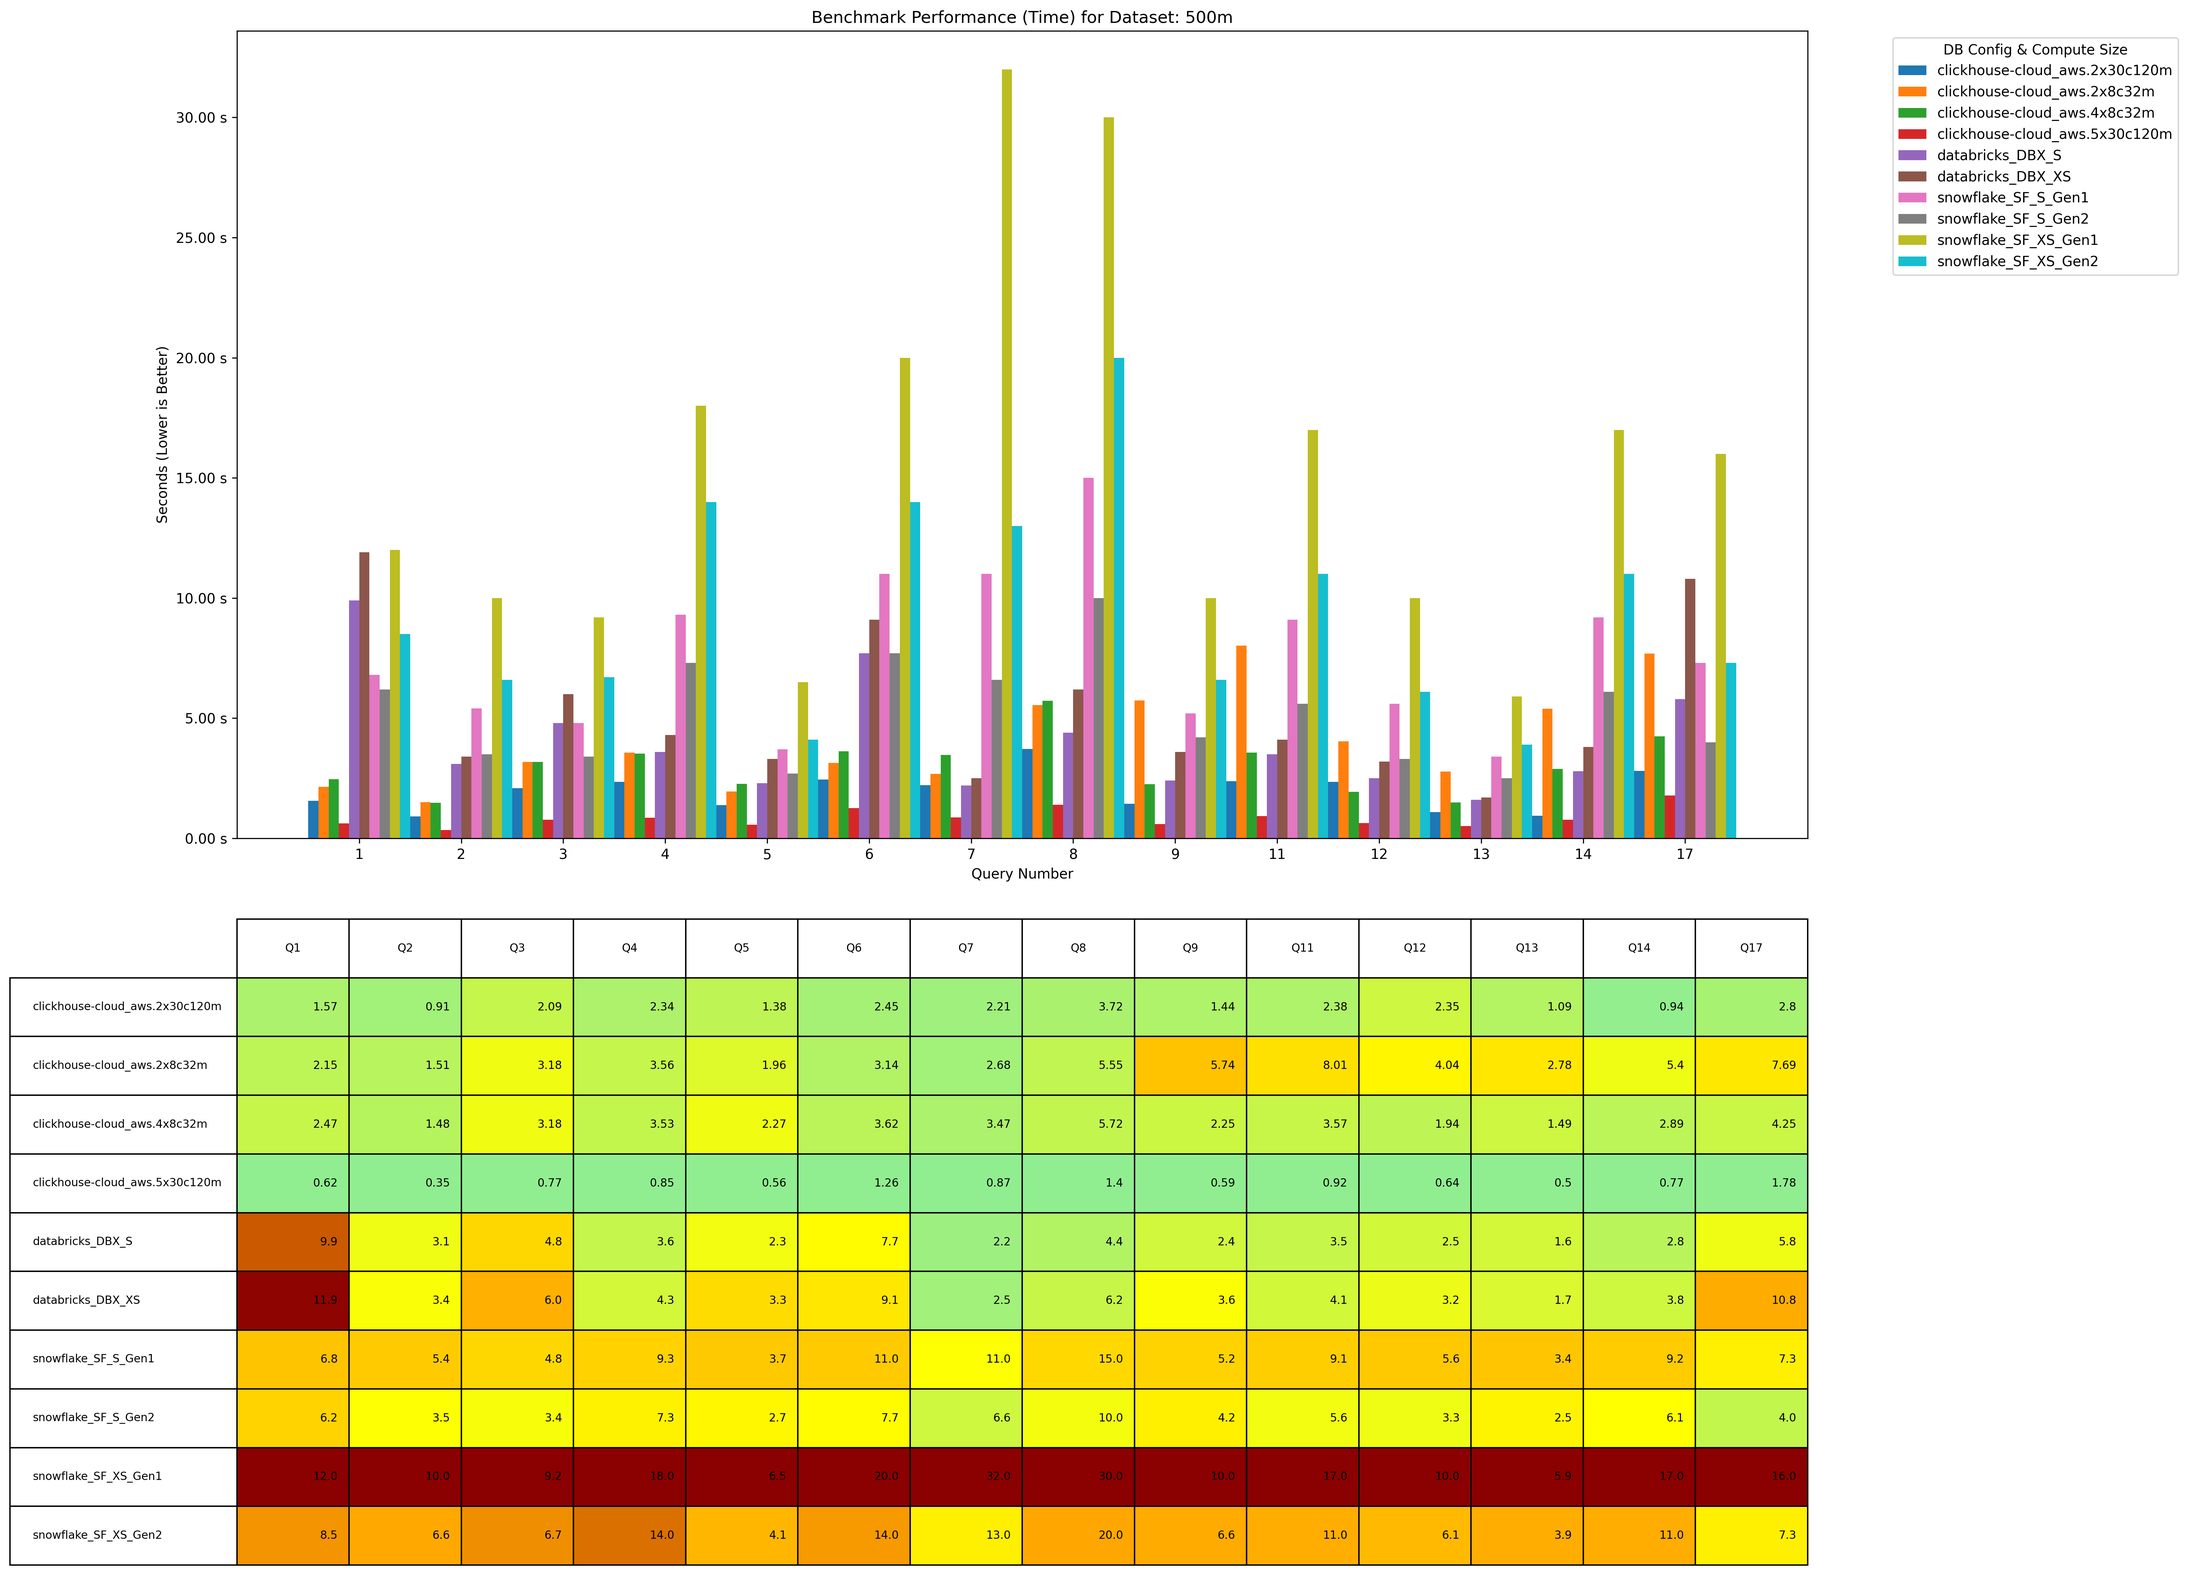
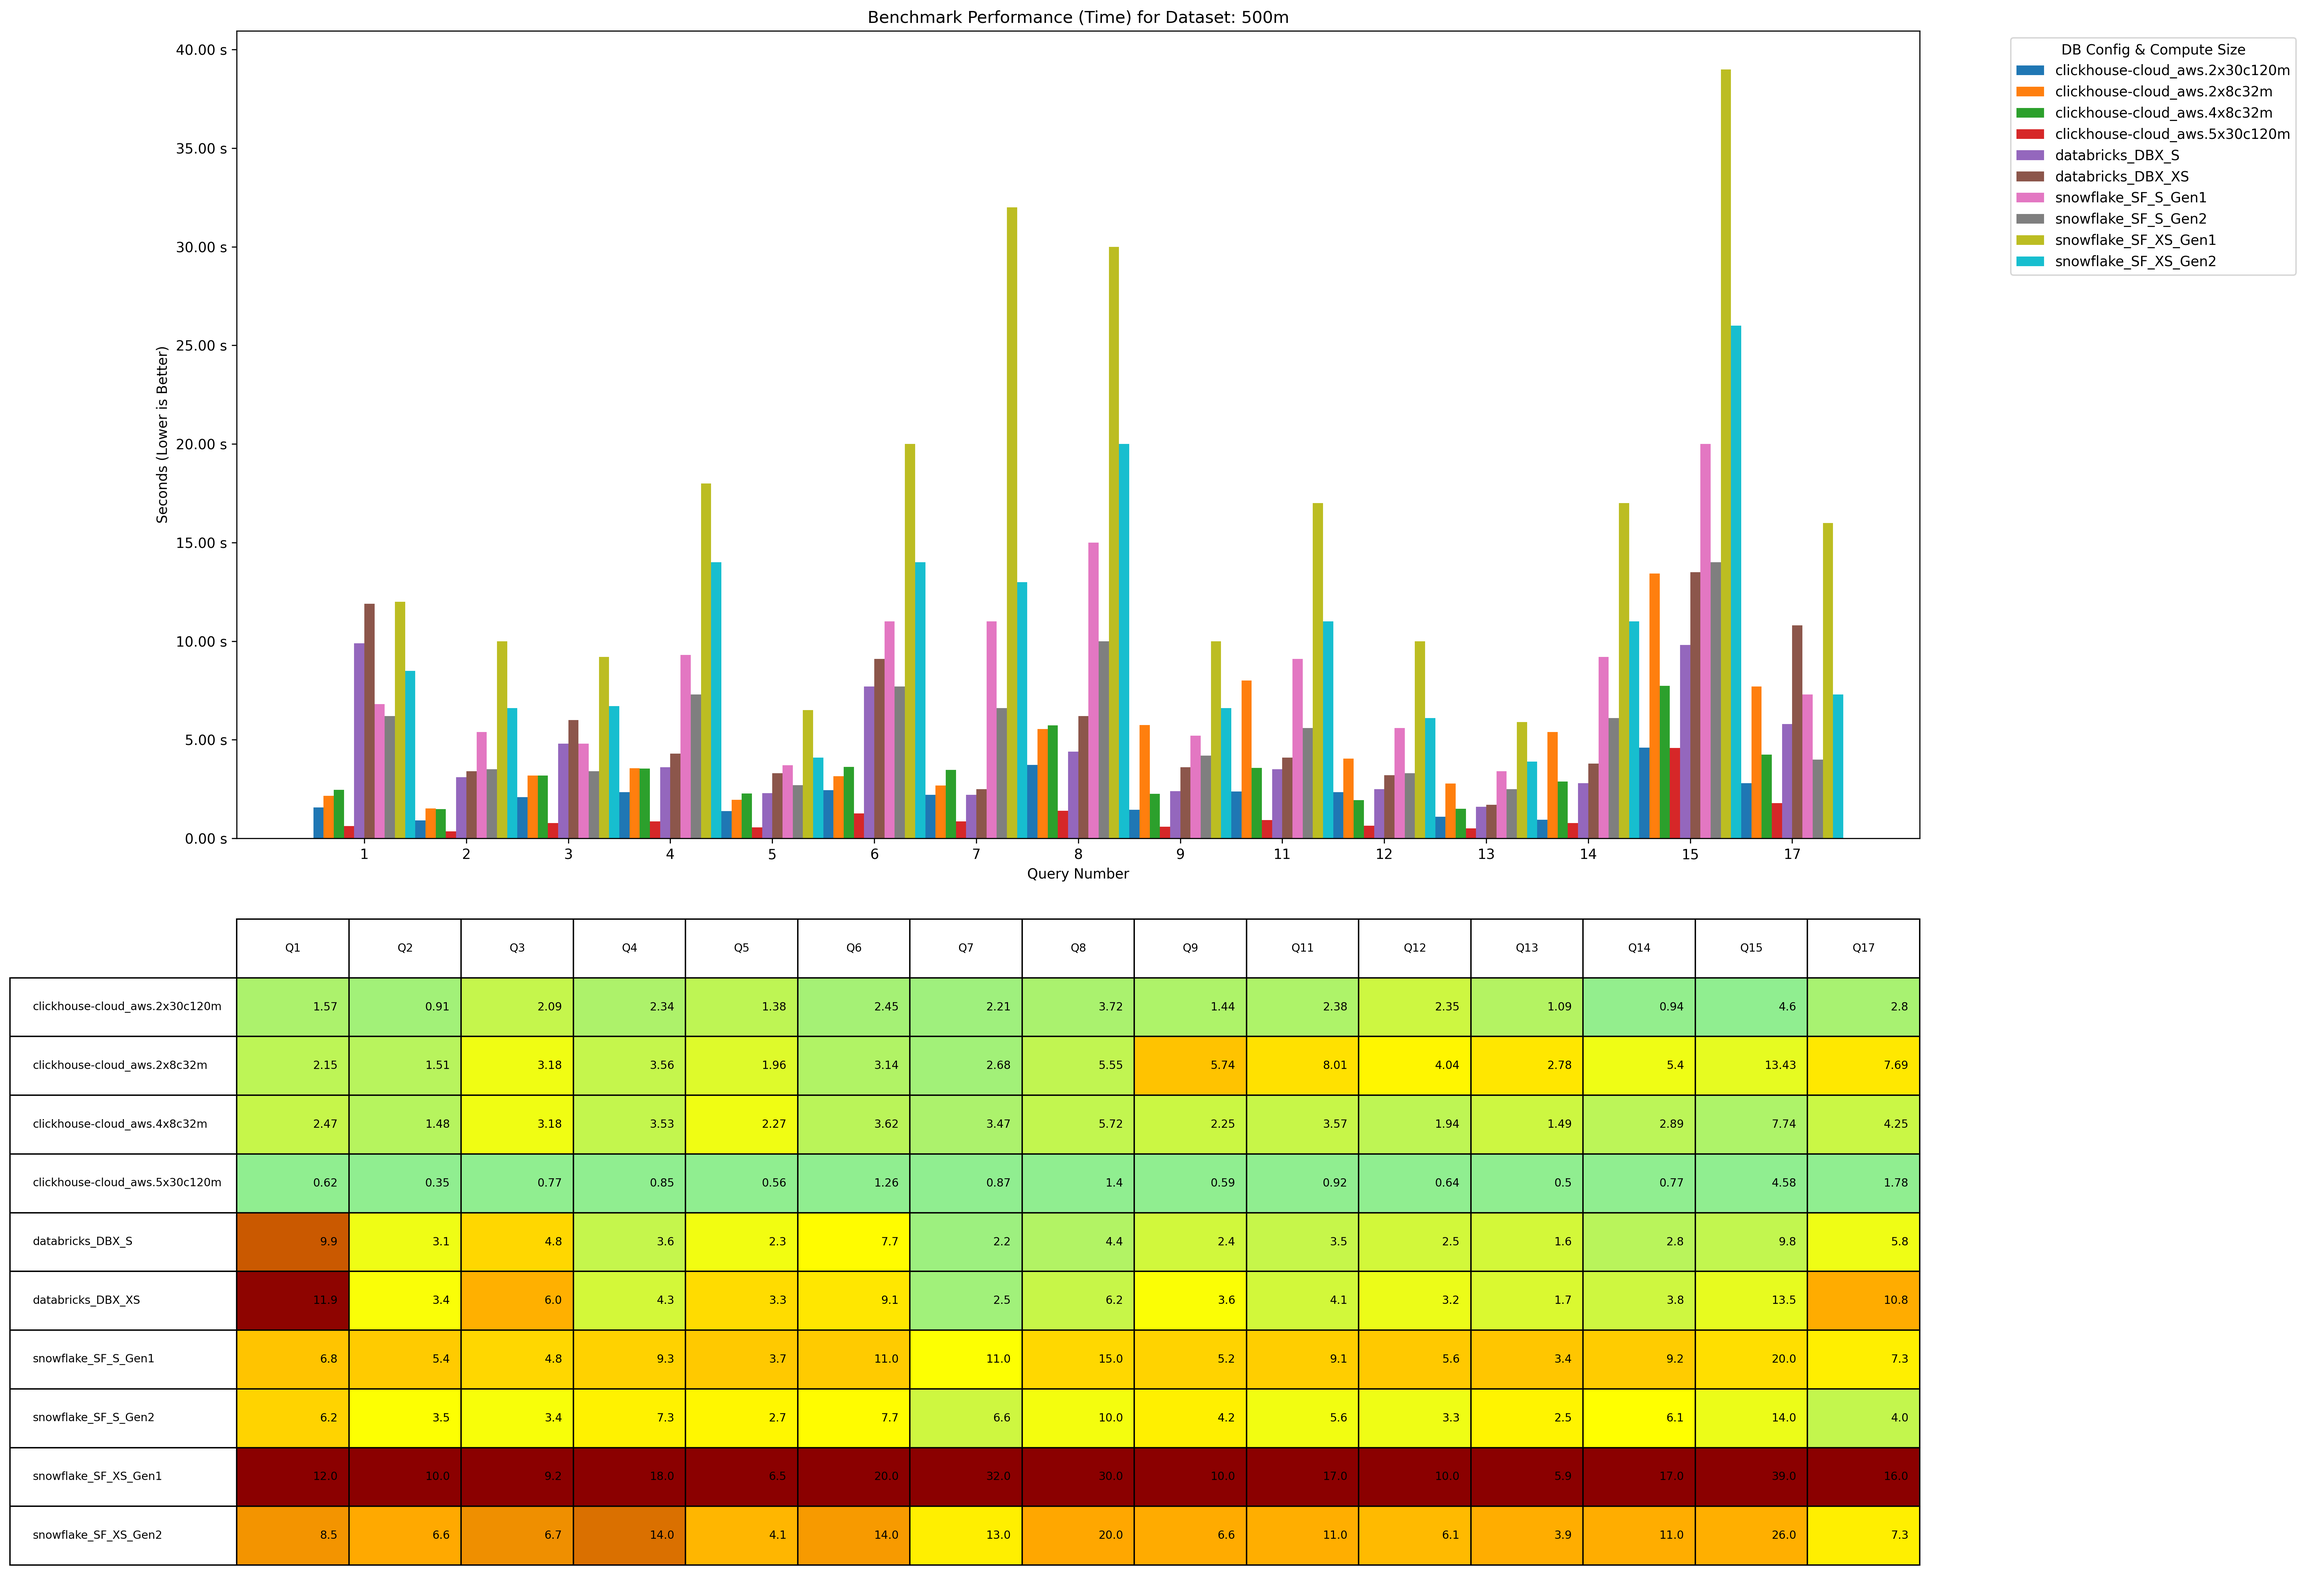
q15

diff --git a/results_vis/main.py b/results_vis/main.py
@@ -357,7 +357,7 @@ def main():
     df_master['query_num'] = df_master['query_num'].astype(int)
     df_master['config_compute'] = df_master['db_config'] + "_" + df_master['compute_size']
 
-    queries_to_exclude = [10, 15, 16] # Temporarily excluding Query 15 as well
+    queries_to_exclude = [10, 16] # Temporarily excluding Query 15 as well
     print(f"\nExcluding queries: {queries_to_exclude} from the results.")
     df_master = df_master[~df_master['query_num'].isin(queries_to_exclude)]
 
